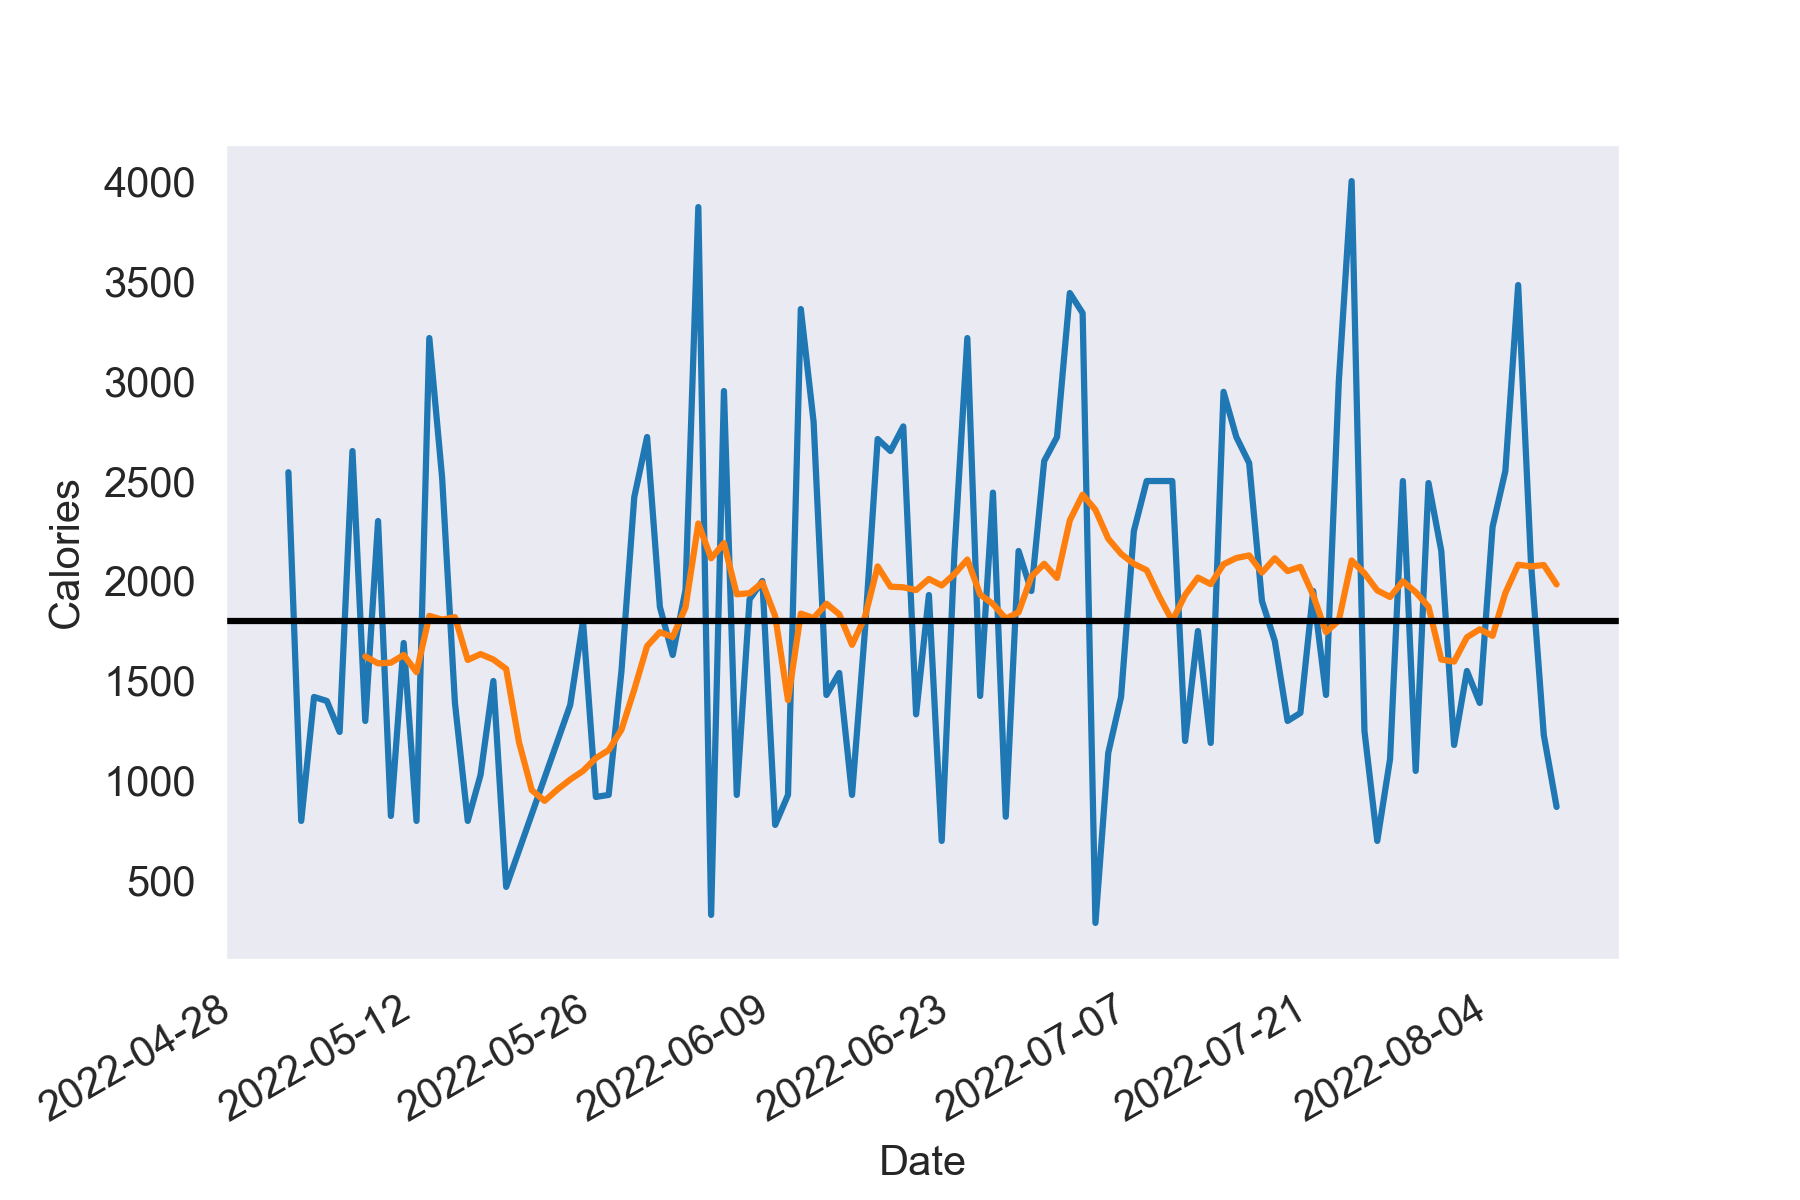
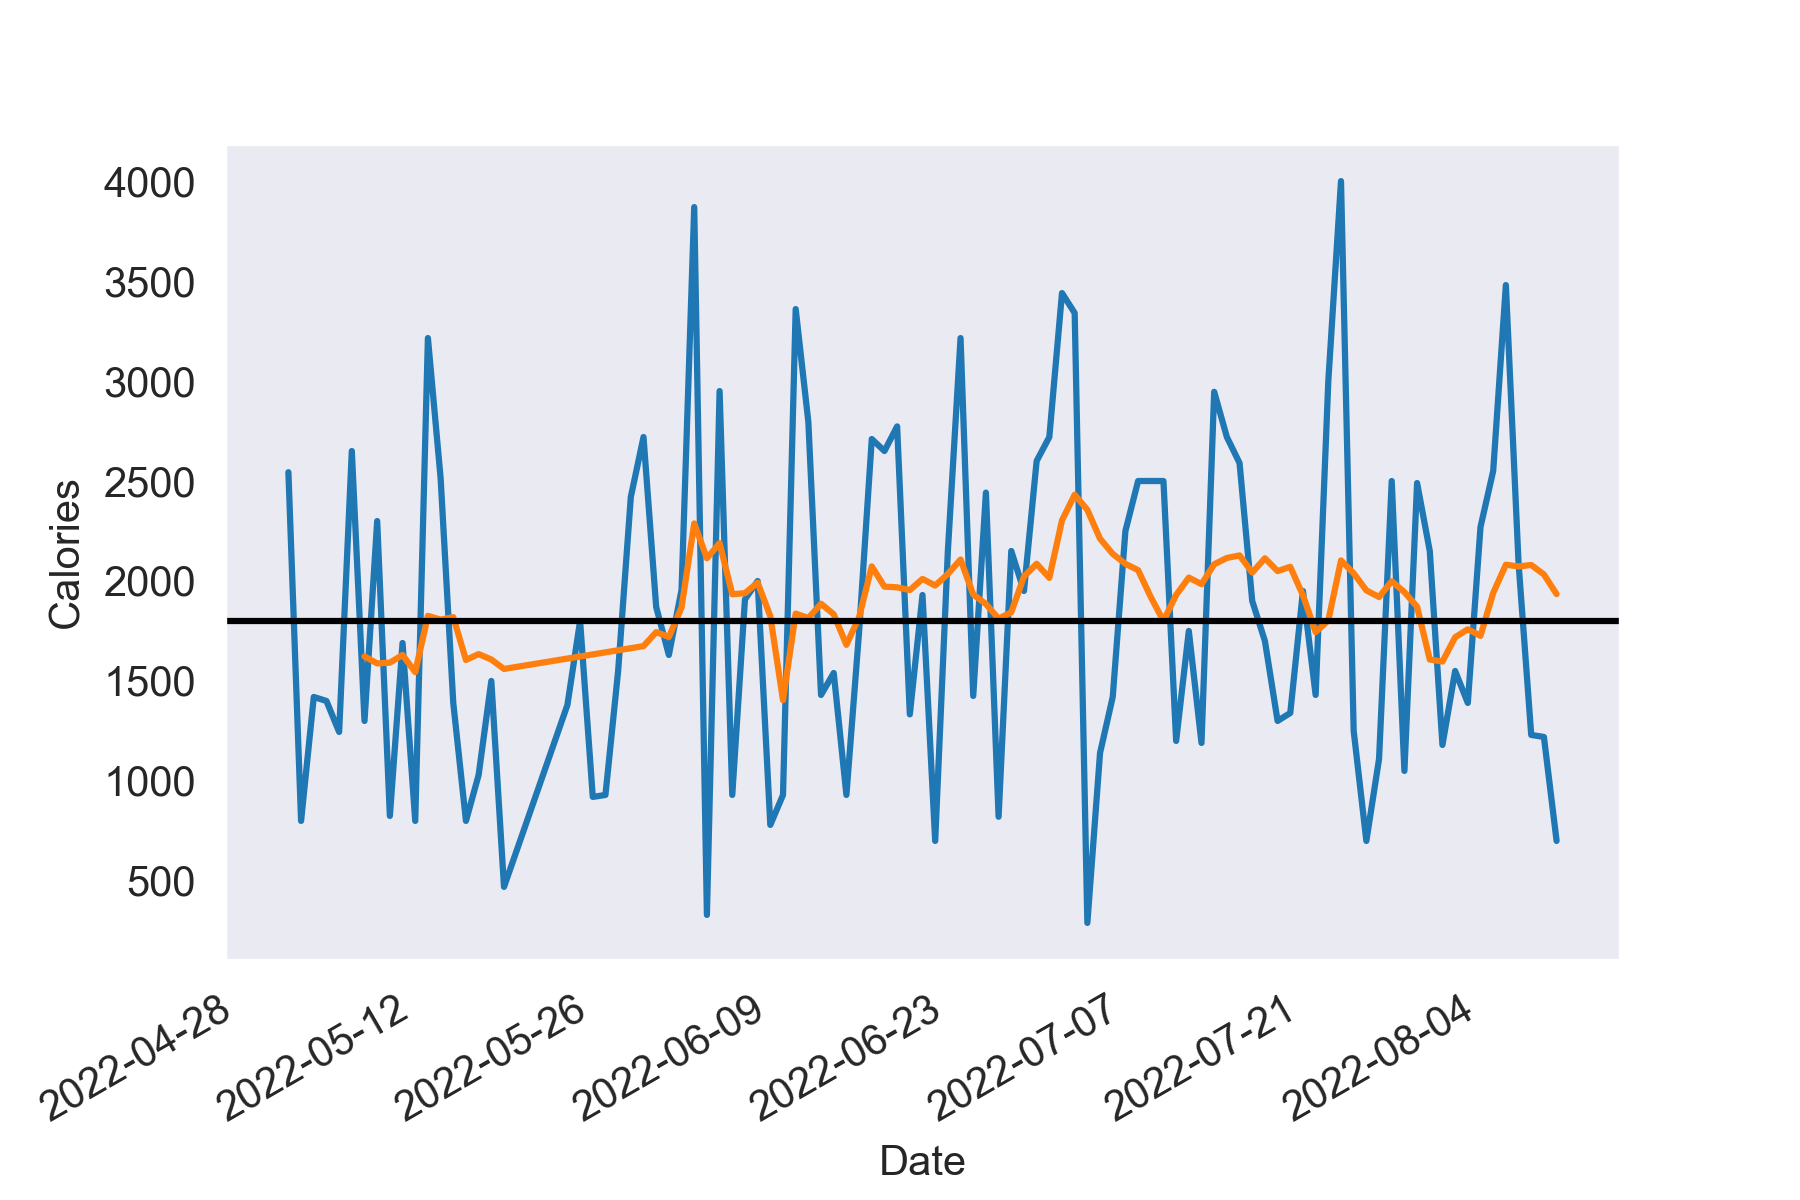
updated interpolation

diff --git a/StreamlitDashboard.py b/StreamlitDashboard.py
@@ -31,12 +31,19 @@ dataset = dataset[['Date',
                    'Goal Calories', 
                    'Calories']]
 
+dataset.astype({'Goal Weight':'float',
+           'Weight':'float',
+           'Goal Calories':'float',
+           'Calories':'float'
+           })
 dataset['Date'] = pd.to_datetime(dataset['Date'])
+
+
 dataset.set_index('Date')
 dataset = dataset.loc[(dataset['Date'] > '2022-05-01') & 
                       (dataset['Date'] <= date.today().strftime("%Y-%m-%d"))]
 
-dataset = dataset.interpolate(method = 'linear')
+dataset['Weight'] = dataset['Weight'].interpolate(method = 'linear')
 
 print(date.today().strftime("%Y-%m-%d"))
 
